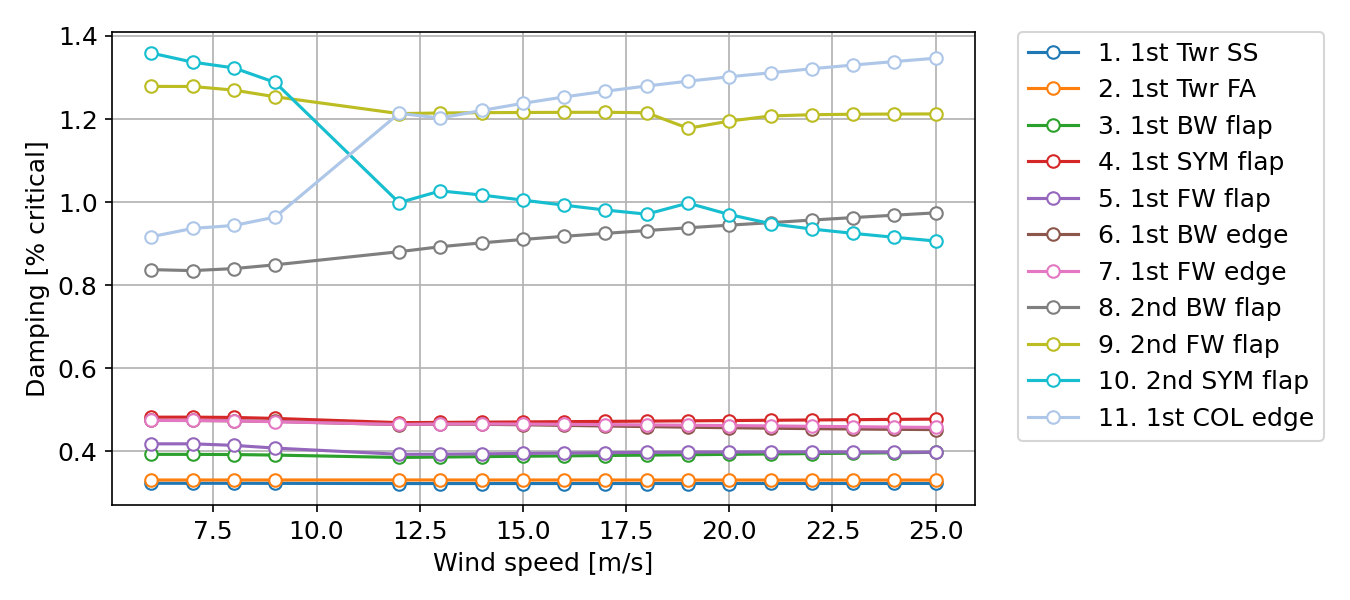
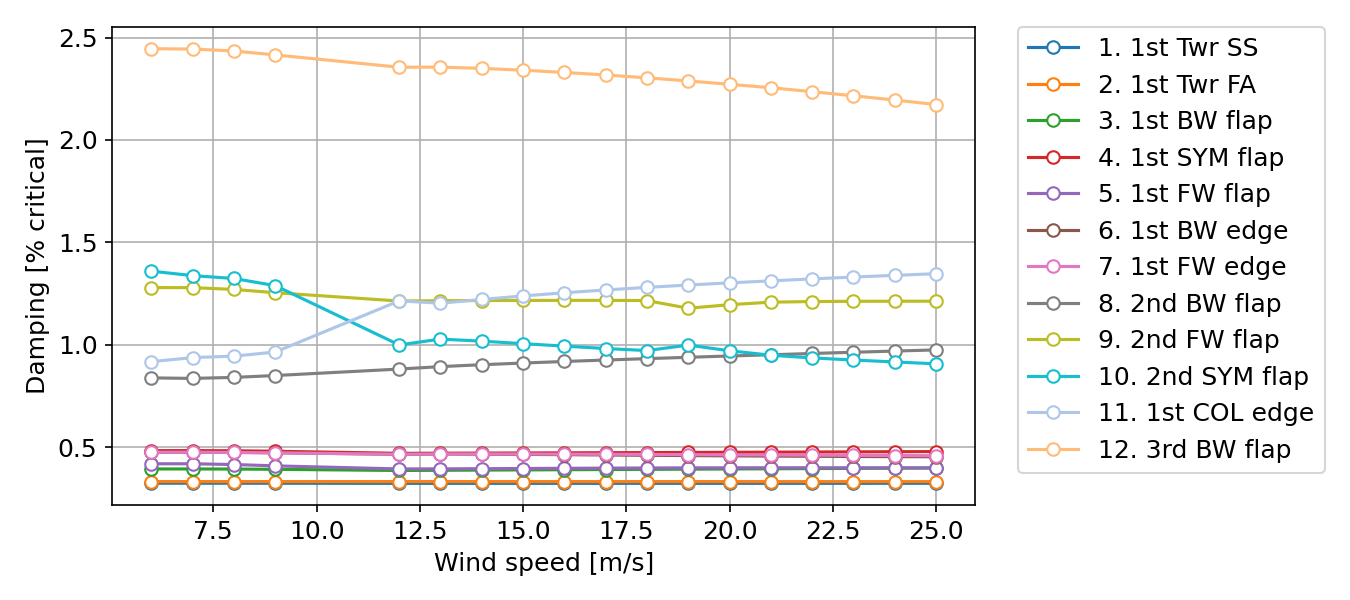
Updated Campbell diagrams with 12th mode

diff --git a/report_1/plot_campbell.py b/report_1/plot_campbell.py
@@ -9,17 +9,26 @@ import matplotlib.pyplot as plt
 struc_path = 'your_model/results_dtu10mw/stab/DTU_10MW_st.cmb'  # either None or path to structural .cmb file
 aero_path = 'your_model/results_dtu10mw/stab/DTU_10MW_ael.cmb'  # either None or path to aeroelastic .cmb file
 min_wsp = 4  # minimum wind speed to plot
-max_modes = 11  # maximum number of modes to plot
+max_modes = 12  # maximum number of modes to plot
 opt_path = './your_model/redesign_struct_flex.opt'  # opt path for 1P, 3P, 6P lines
 save_fig = True  # save the figures to png?
 
 # identification of modes for structural and aeroelastic campbell diagram
+# add if statement for turbines as FA and SS swap for DTU 10 MW, i.e.
+# DTU
 modes_struc = ['1. 1st Twr FA', '2. 1st Twr SS', '3. 1st BW flap', '4. 1st SYM flap',  
               '5. 1st FW flap', '6. 1st BW edge', '7. 1st FW edge', '8. 2nd BW flap',  
-              '9. 2nd FW flap', '10. 2nd SYM flap', '11. 1st COL edge'] 
+              '9. 2nd FW flap', '10. 2nd SYM flap', '11. 1st COL edge','12. 3rd BW flap'] 
 modes_aero = ['1. 1st Twr SS', '2. 1st Twr FA', '3. 1st BW flap', '4. 1st SYM flap',  
               '5. 1st FW flap', '6. 1st BW edge', '7. 1st FW edge', '8. 2nd BW flap', 
-              '9. 2nd FW flap', '10. 2nd SYM flap', '11. 1st COL edge'] 
+              '9. 2nd FW flap', '10. 2nd SYM flap', '11. 1st COL edge', '12. 3rd BW flap'] 
+# # Redesign
+# modes_struc = ['1. 1st Twr FA', '2. 1st Twr SS', '3. 1st BW flap', '4. 1st SYM flap',  
+#               '5. 1st FW flap', '6. 1st BW edge', '7. 1st FW edge', '8. 2nd BW flap',  
+#               '9. 2nd FW flap', '10. 2nd SYM flap', '11. 1st COL edge','12. 3rd BW flap'] 
+# modes_aero = ['1. 1st Twr FA', '2. 1st Twr SS', '3. 1st BW flap', '4. 1st SYM flap',  
+#               '5. 1st FW flap', '6. 1st BW edge', '7. 1st FW edge', '8. 2nd BW flap', 
+#               '9. 2nd FW flap', '10. 2nd SYM flap', '11. 1st COL edge', '12. 3rd BW flap'] 
 
 
 #%% Define useful functions
